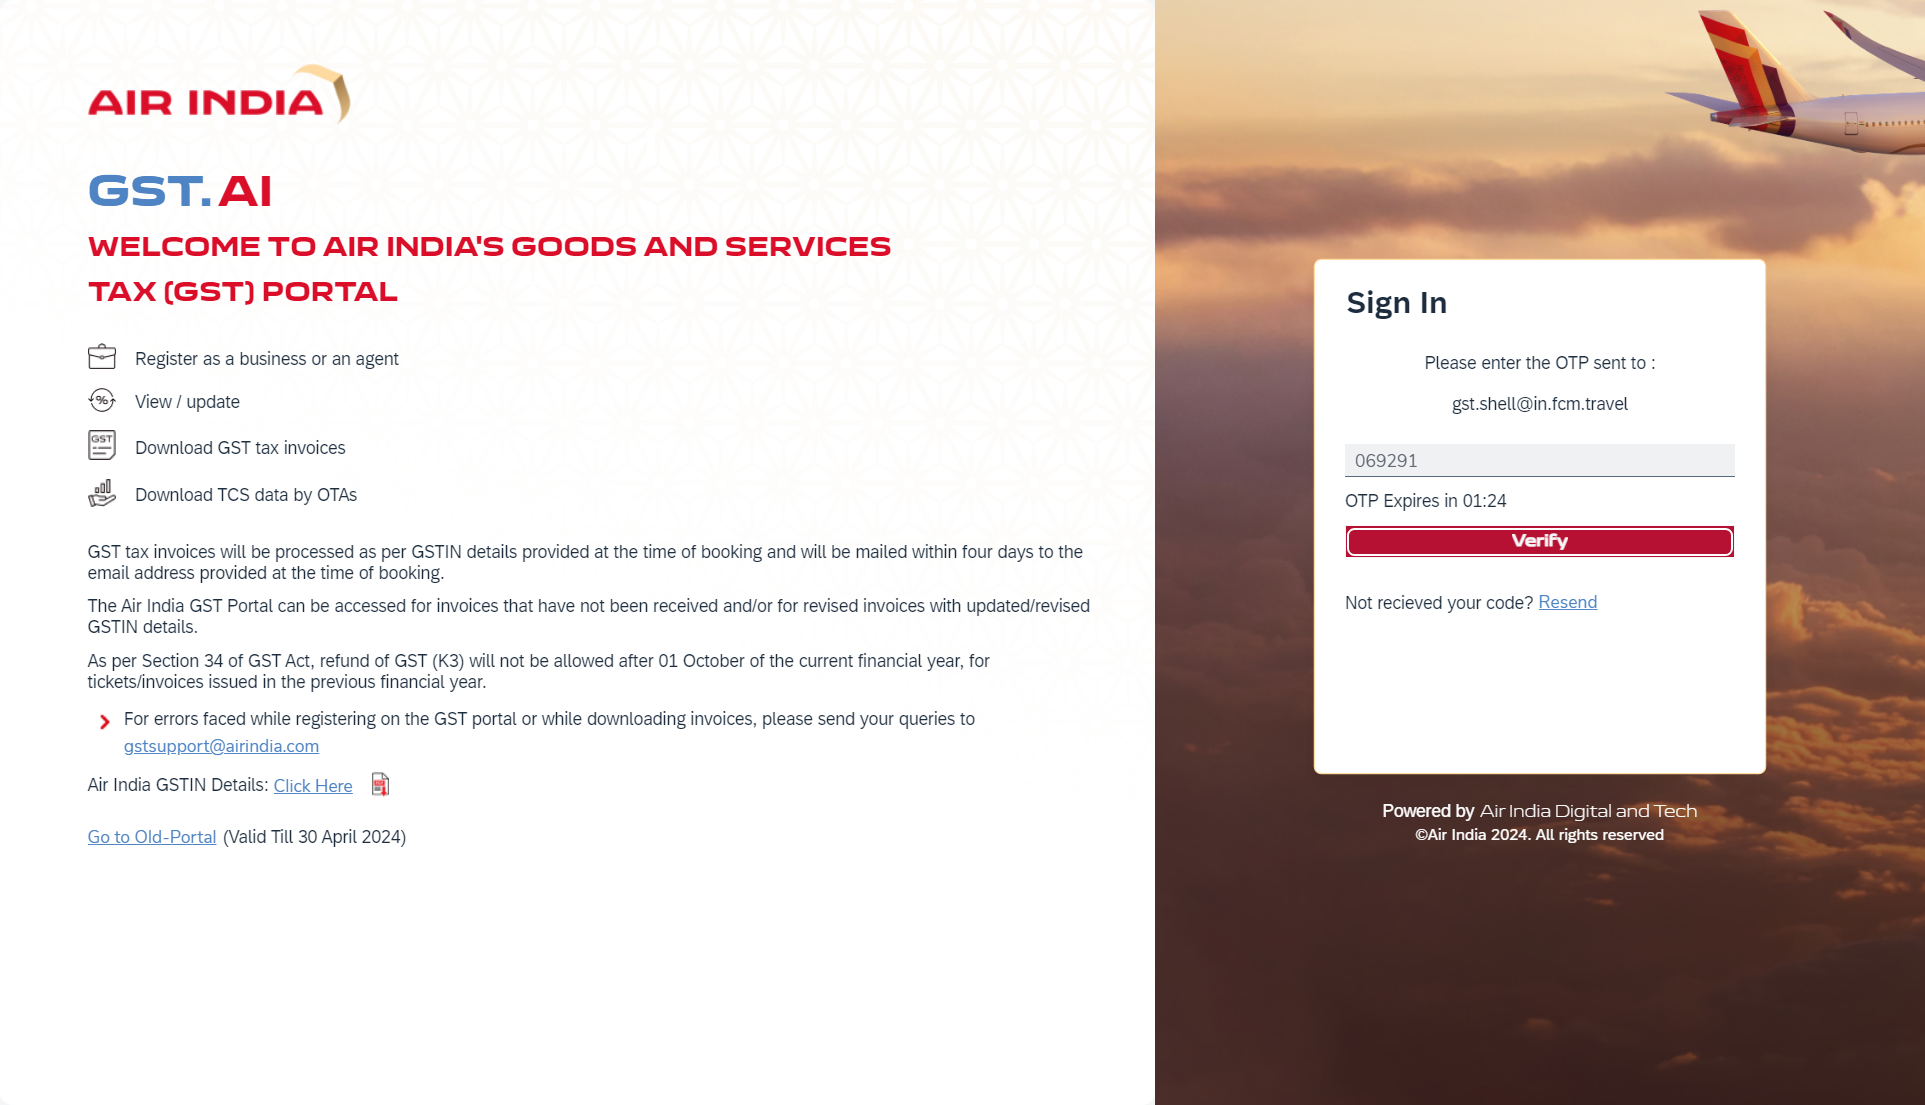
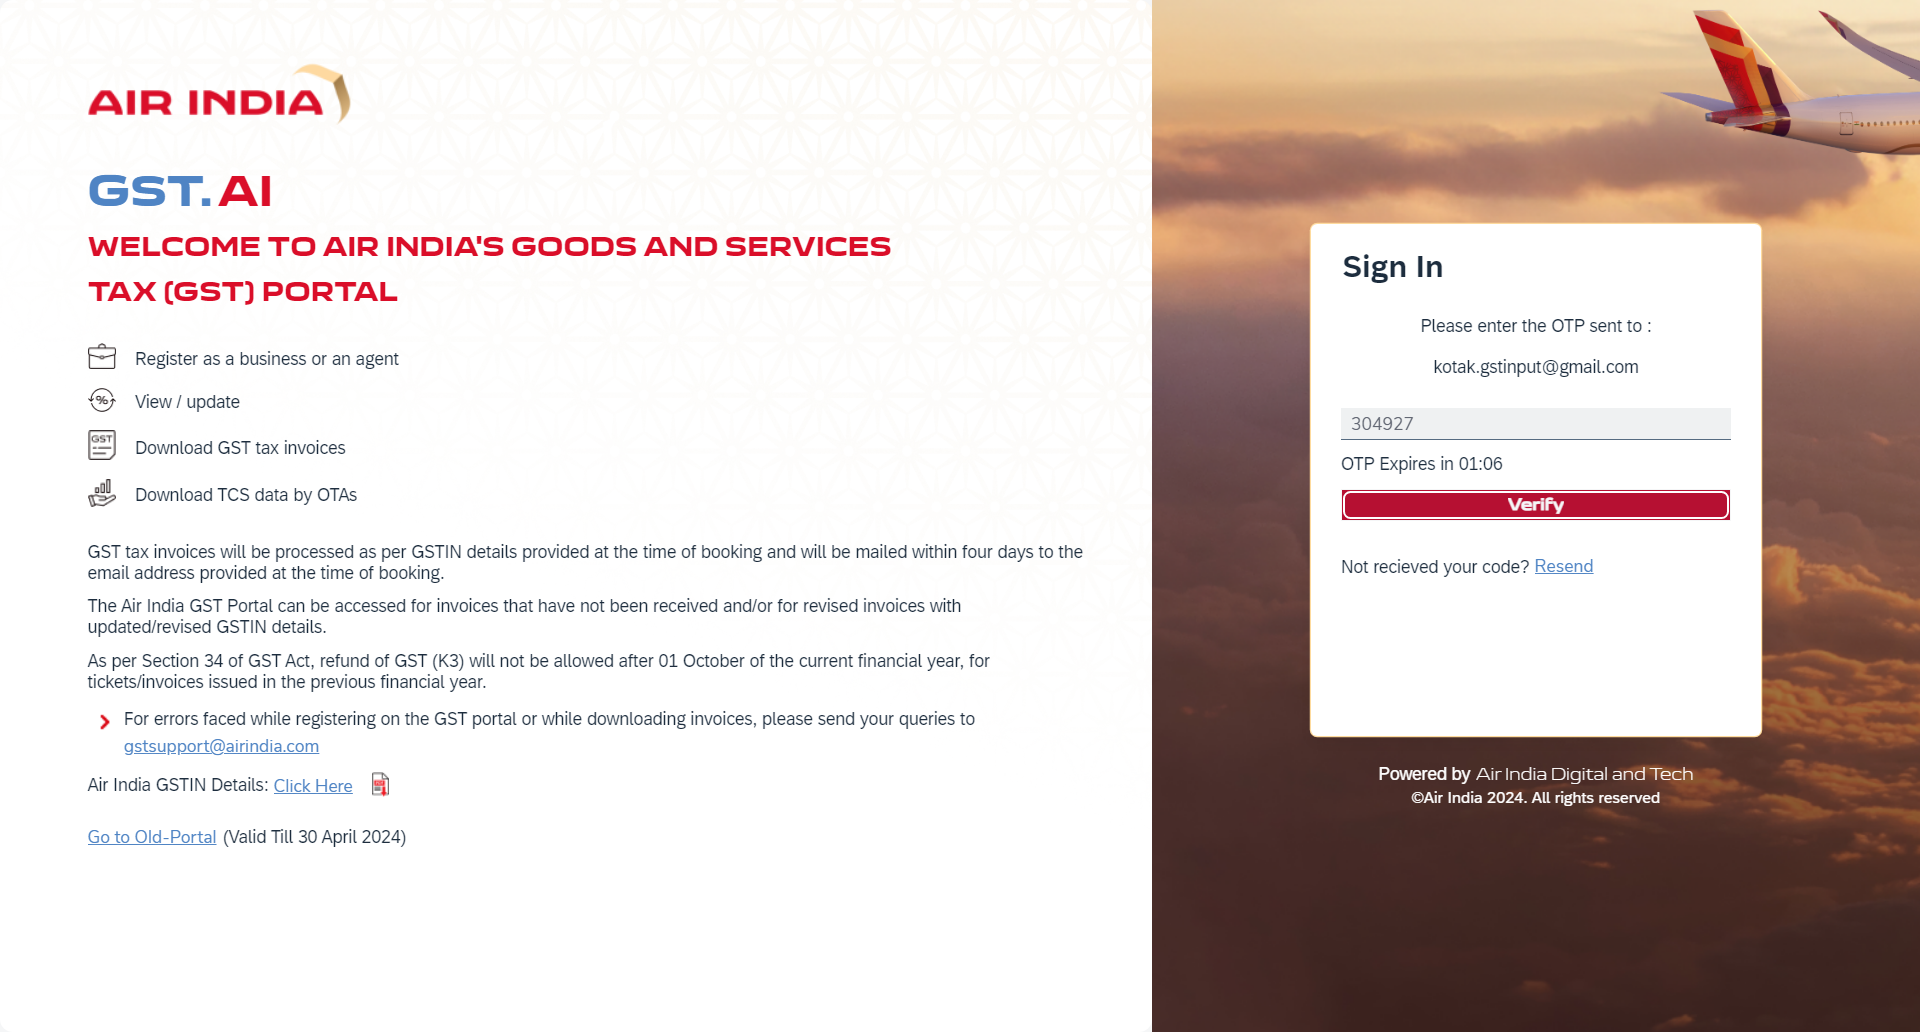
files added

diff --git a/newAirIndia_fixed.py b/newAirIndia_fixed.py
@@ -136,7 +136,7 @@ def gst_Dashboard(driver):
                 # Find and click the "More" button
                 more_button = driver.find_element(By.XPATH, "//*[@id='container-airindiagst---DocumentHistoryPriorTo--morelink']")  # Replace with actual XPath of the "More" button
                 more_button.click()
-                time.sleep(2)  # Adjust sleep time as necessary to allow content to load
+                time.sleep(5)  # Adjust sleep time as necessary to allow content to load
             except Exception as e:
                 print(f"An error occurred: {e}")
                 break  # Exit the loop if there's an error
@@ -157,13 +157,13 @@ def gst_Dashboard(driver):
         # Handle the popup and click the "Yes" button
         try:
             # Wait for the "Yes" button in the popup to be present
-            time.sleep(2)  # Adjust this sleep time as necessary
+            time.sleep(4)  # Adjust this sleep time as necessary
             yes_button = driver.find_element(By.XPATH, "//*[@id='__mbox-btn-2']")  # Replace with the actual XPath of the "Yes" button
             yes_button.click()
         except Exception as e:
             print(f"An error occurred while trying to click the 'Yes' button: {e}")
 
-        time.sleep(250)
+        time.sleep(400)
         driver.quit()
 
 
@@ -174,7 +174,7 @@ def gst_Dashboard(driver):
 # Example usage:
 def main():
     driver = _web_driver()
-    login(driver,"gst.shell@in.fcm.travel","FCMindia@123")
+    login(driver,"kotak.gstinput@gmail.com","Finkr@ft123")
     gst_Dashboard(driver)
 
 if __name__ == "__main__":
